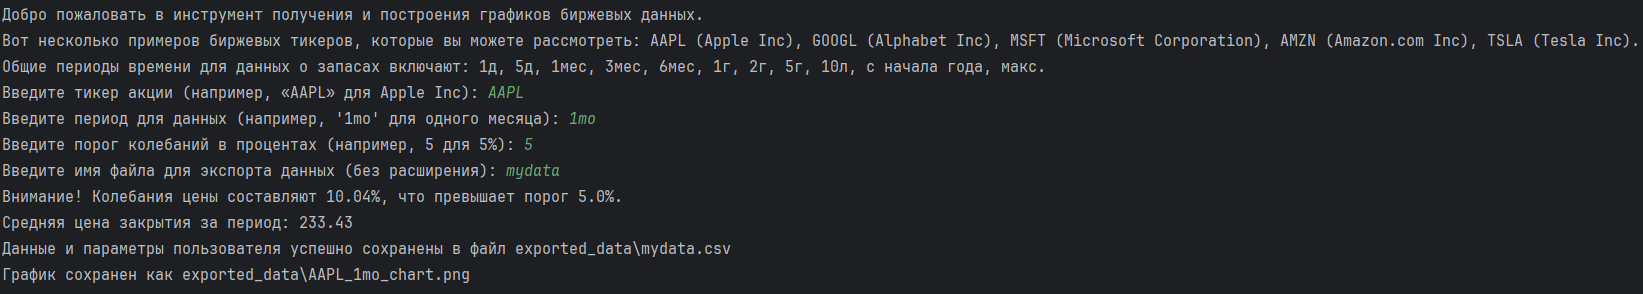
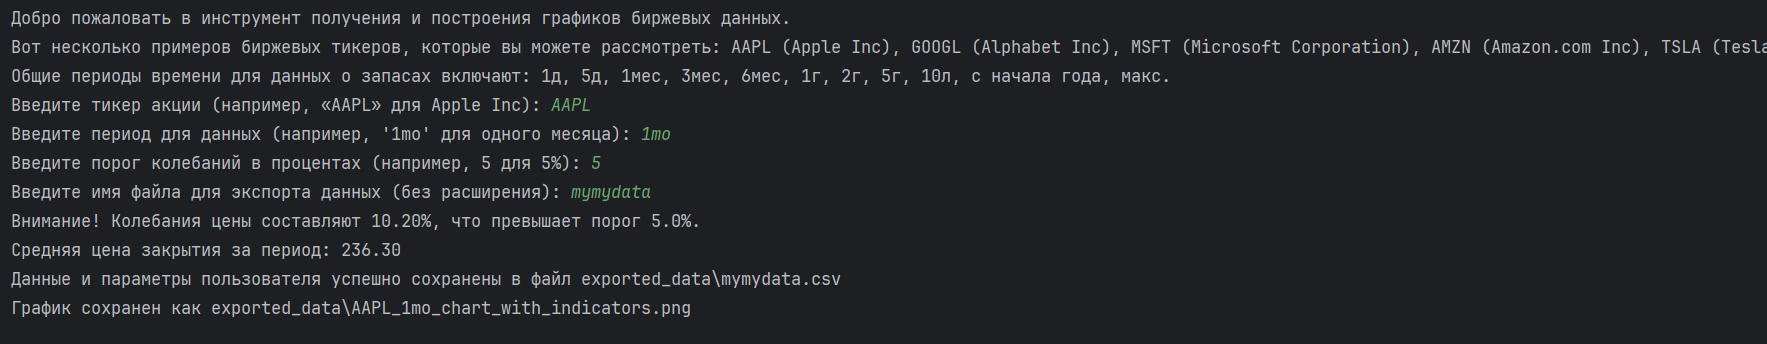
Задача №4. Реализован функционал: Добавление дополнительных технических индикаторов

Changed region(s): [[0.0, 0.3673, 0.4967, 0.9796], [0.0, 0.0306, 1.0, 0.2449], [0.0, 0.2755, 0.3414, 0.3367]]

diff --git a/working_with_data/data_plotting.py b/working_with_data/data_plotting.py
@@ -3,24 +3,46 @@ import matplotlib.pyplot as plt
 
 
 def create_and_save_plot(data, ticker, period, filename=None):
-    plt.figure(figsize=(10, 6))
+    plt.figure(figsize=(12, 8))
 
-    # Построение графика
+    # График цен
+    plt.subplot(3, 1, 1)
     dates = data.index.to_numpy()
-    plt.plot(dates, data['Close'].values, label='Close Price')
-    plt.plot(dates, data['Moving_Average'].values, label='Moving Average')
-
-    plt.title(f"{ticker} Цена акций с течением времени")
+    plt.plot(dates, data['Close'], label='Close Price')
+    plt.plot(dates, data['Moving_Average'], label='Moving Average')
+    plt.title(f"{ticker} Цена акций")
     plt.xlabel("Дата")
     plt.ylabel("Цена")
     plt.legend()
 
+    # График RSI
+    if 'RSI' in data.columns:
+        plt.subplot(3, 1, 2)
+        plt.plot(dates, data['RSI'], label='RSI', color='orange')
+        plt.axhline(70, color='red', linestyle='--', label='Overbought (70)')
+        plt.axhline(30, color='green', linestyle='--', label='Oversold (30)')
+        plt.title("Индекс относительной силы (RSI)")
+        plt.xlabel("Дата")
+        plt.ylabel("RSI")
+        plt.legend()
+
+    # График MACD
+    if 'MACD' in data.columns and 'Signal_Line' in data.columns:
+        plt.subplot(3, 1, 3)
+        plt.plot(dates, data['MACD'], label='MACD', color='blue')
+        plt.plot(dates, data['Signal_Line'], label='Signal Line', color='red')
+        plt.title("MACD и сигнальная линия")
+        plt.xlabel("Дата")
+        plt.ylabel("MACD")
+        plt.legend()
+
     if filename is None:
-        filename = f"{ticker}_{period}_stock_price_chart.png"
+        filename = f"{ticker}_{period}_chart_with_indicators.png"
 
     folder = "exported_data"
     os.makedirs(folder, exist_ok=True)
     file_path = os.path.join(folder, filename)
 
+    plt.tight_layout()
     plt.savefig(file_path)
     print(f"График сохранен как {file_path}")

diff --git a/working_with_data/data_download.py b/working_with_data/data_download.py
@@ -67,3 +67,36 @@ def export_data_to_csv(data, filename, user_inputs):
     # Сохраняем данные акций
     data.to_csv(file_path, mode='a', index=False)
     print(f"Данные и параметры пользователя успешно сохранены в файл {file_path}")
+
+
+def calculate_rsi(data, window=14):
+    """
+    Рассчитывает RSI (индекс относительной силы) для данных акций.
+    :param data: DataFrame с колонкой 'Close'
+    :param window: Длина окна для расчёта RSI (по умолчанию 14)
+    :return: DataFrame с добавленным столбцом 'RSI'
+    """
+    delta = data['Close'].diff(1)
+    gain = (delta.where(delta > 0, 0)).rolling(window=window).mean()
+    loss = (-delta.where(delta < 0, 0)).rolling(window=window).mean()
+
+    rs = gain / loss
+    data['RSI'] = 100 - (100 / (1 + rs))
+    return data
+
+
+def calculate_macd(data, short_window=12, long_window=26, signal_window=9):
+
+    """
+    Рассчитывает MACD и сигнальную линию.
+    :param data: DataFrame с колонкой 'Close'
+    :param short_window: Период короткого скользящего среднего (по умолчанию 12)
+    :param long_window: Период длинного скользящего среднего (по умолчанию 26)
+    :param signal_window: Период сигнальной линии (по умолчанию 9)
+    :return: DataFrame с добавленными столбцами 'MACD' и 'Signal_Line'
+    """
+    data['EMA12'] = data['Close'].ewm(span=short_window, adjust=False).mean()
+    data['EMA26'] = data['Close'].ewm(span=long_window, adjust=False).mean()
+    data['MACD'] = data['EMA12'] - data['EMA26']
+    data['Signal_Line'] = data['MACD'].ewm(span=signal_window, adjust=False).mean()
+    return data

diff --git a/working_with_data/main.py b/working_with_data/main.py
@@ -20,6 +20,10 @@ def main():
     # Fetch stock data
     stock_data = dd.fetch_stock_data(ticker, period)
 
+    # Рассчитываем RSI и MACD
+    stock_data = dd.calculate_rsi(stock_data)
+    stock_data = dd.calculate_macd(stock_data)
+
     # Уведомление о сильных колебаниях
     dd.notify_if_strong_fluctuations(stock_data, threshold)
 
@@ -38,7 +42,7 @@ def main():
     dd.export_data_to_csv(stock_data, export_filename, user_inputs)
 
     # Построение и сохранение графика
-    graph_filename = f"{ticker}_{period}_chart.png"
+    graph_filename = f"{ticker}_{period}_chart_with_indicators.png"
     dplt.create_and_save_plot(stock_data, ticker, period, filename=graph_filename)
 
 

diff --git a/README.md b/README.md
@@ -19,11 +19,23 @@
 
 ## Функционал
 
-- **Получение данных акций**: загрузка данных по заданному тикеру и периоду.
-- **Средняя цена закрытия**: вычисление и вывод средней цены закрытия акций за период.
-- **Уведомление о колебаниях**: предупреждение пользователя, если колебания превышают заданный порог.
-- **Построение графиков**: создание и сохранение графиков изменения цены акций.
-- **Просмотр полученных данных**: возможность посмотреть сохраненный файл с информацией о выбранных акциях.
+1. **Получение данных акций:**
+   - Загрузка данных по заданному тикеру и периоду с использованием API Yahoo Finance.
+   - Данные сохраняются в CSV-файл с именем `stock_data_<ТИКЕР>_<ПЕРИОД>.csv`.
+
+2. **Средняя цена закрытия:**
+   - Вычисление и вывод средней цены закрытия акций за выбранный период.
+
+3. **Уведомление о колебаниях:**
+   - Анализ максимальной и минимальной цены закрытия.
+   - Вывод предупреждения, если колебания превышают заданный порог (в процентах).
+
+4. **Построение графиков:**
+   - Создание графика изменения цены закрытия акций с использованием `gnuplot`.
+   - График сохраняется в формате PNG с именем `<ТИКЕР>_<ПЕРИОД>_graph.png`.
+
+5. **Просмотр полученных данных:**
+   - Возможность посмотреть первые строки сохранённого файла CSV для проверки содержимого..
 ---
 
 ## Установка
@@ -61,18 +73,18 @@
 ![Пример 3](imgs_for_readme/percentage_input.jpg)
 
 ### Пример 4: Ввод названия файла `CSV` под которым нужно сохранить данные.
-![Пример 3](imgs_for_readme/entering_the_name_of_file.png)
+![Пример 4](imgs_for_readme/entering_the_name_of_file.png)
 
 ### Пример 5: Итог.
-![Пример 4](imgs_for_readme/finally.png)
+![Пример 5](imgs_for_readme/finally.png)
 ---
 
 ## Скриншоты
 
 ### Построенный график:
-![Скриншот 1](AAPL_1mo_stock_price_chart.png)
+![Скриншот 1](working_with_data/exported_data/AAPL_1mo_chart_with_indicators.png)
 ### Полученный `CSV` файл:
-![Скриншот 2](imgs_for_readme/Received_csv.png)
+![Скриншот 2](imgs_for_readme/Received_csv.png.png)
 
 
 
